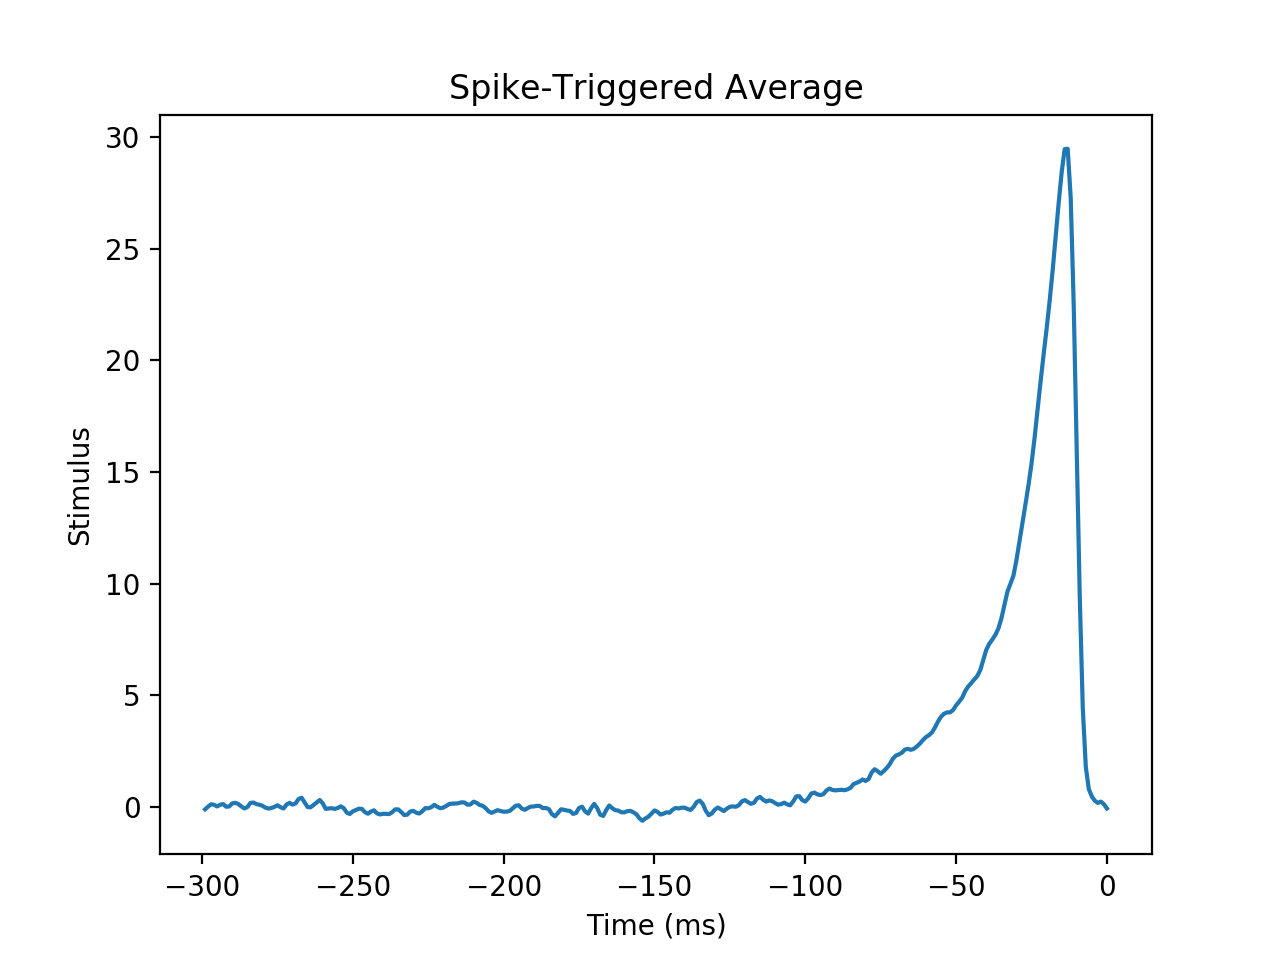
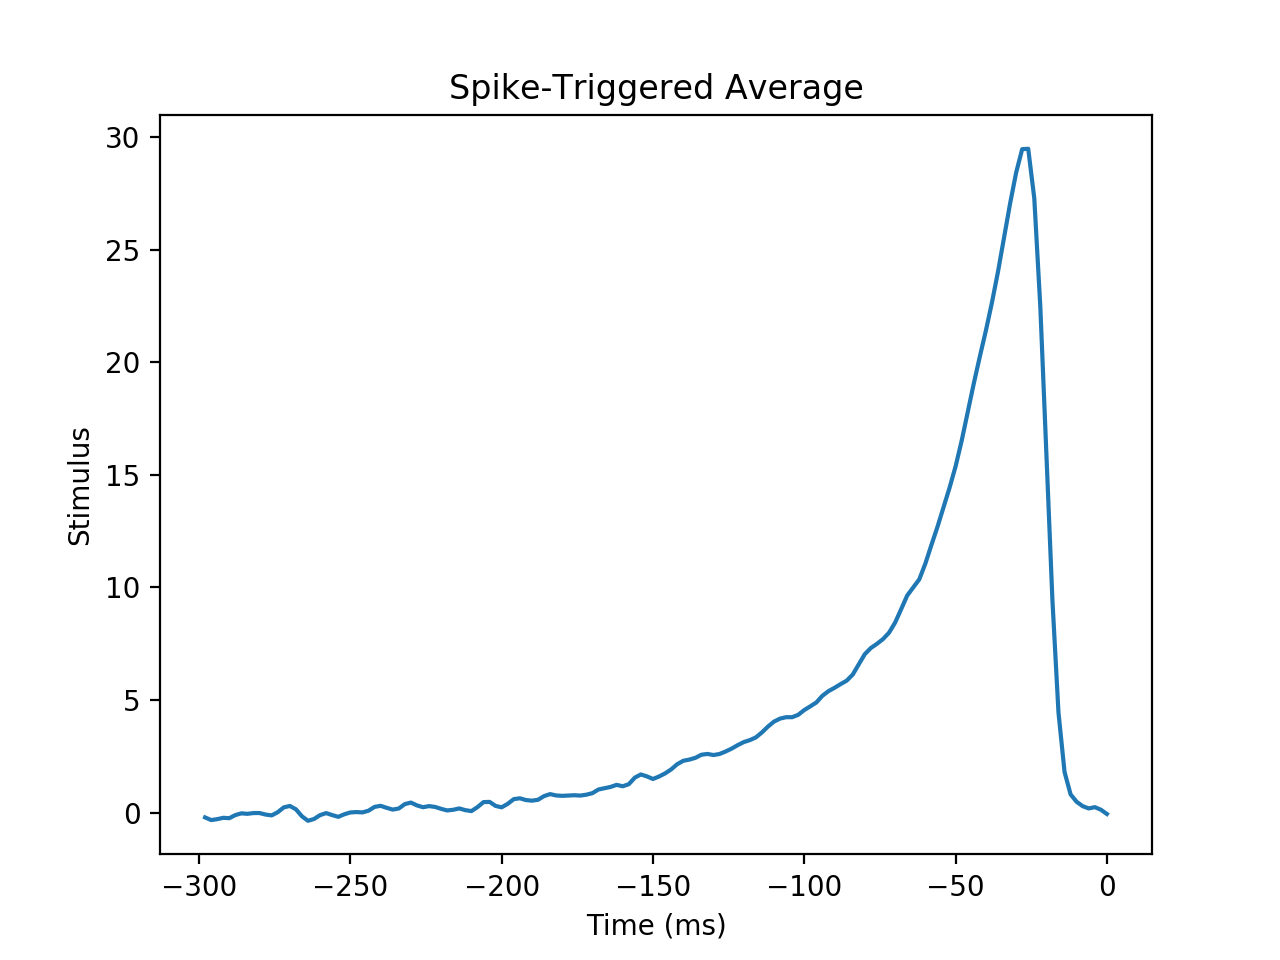
Adapting the sampling and period value based on the quize questions

diff --git a/L2/compute_sta.py b/L2/compute_sta.py
@@ -29,7 +29,7 @@ def compute_sta(stim, rho, num_timesteps):
     # Fill in this value. Note that you should not count spikes that occur
     # before 300 ms into the recording.
     num_spikes = spike_times.shape[0] 
-    
+    print('Detected %d # spikes' % num_spikes)
     # Compute the spike-triggered average of the spikes found.
     # To do this, compute the average of all of the vectors
     # starting 300 ms (exclusive) before a spike and ending at the time of
@@ -41,5 +41,5 @@ def compute_sta(stim, rho, num_timesteps):
     for sp in spike_times:
         sta += stim[sp-num_timesteps:sp]
     sta /= num_spikes
-    
+
     return sta

diff --git a/L2/quiz2.py b/L2/quiz2.py
@@ -23,8 +23,8 @@ rho = data['rho']
 
 
 # Fill in these values
-sampling_period = 1
-num_timesteps = 300
+sampling_period = (1.0/500.0) * 1000.0 # in ms -> 2ms
+num_timesteps = 150 # we want 300ms
 
 sta = compute_sta(stim, rho, num_timesteps)
 
